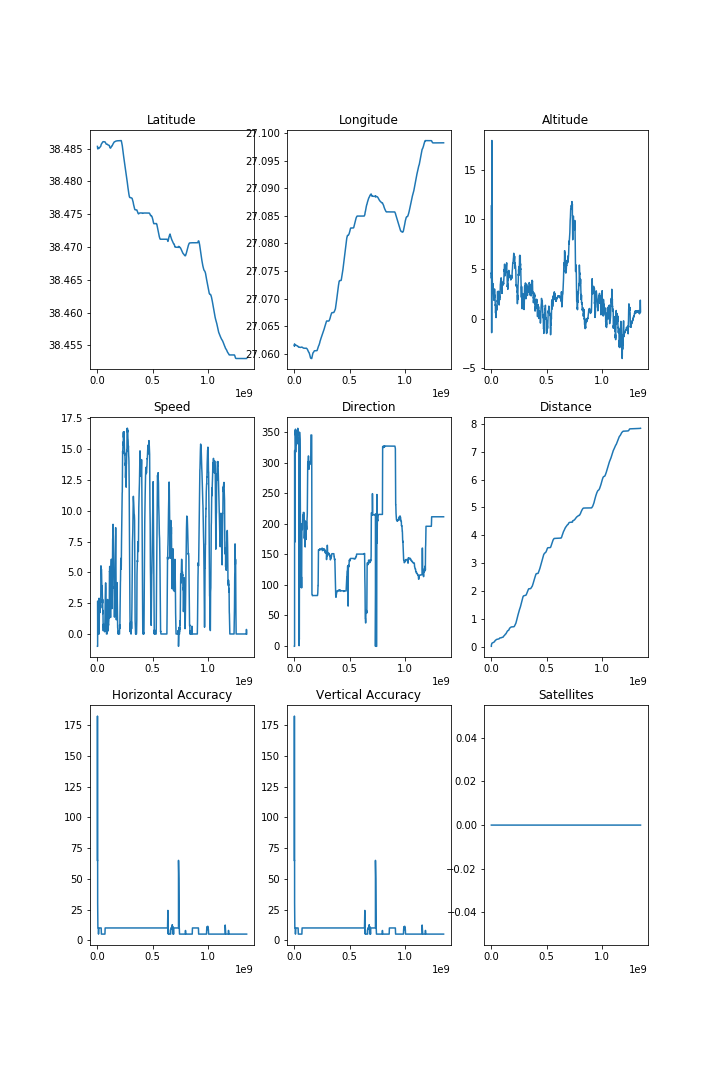
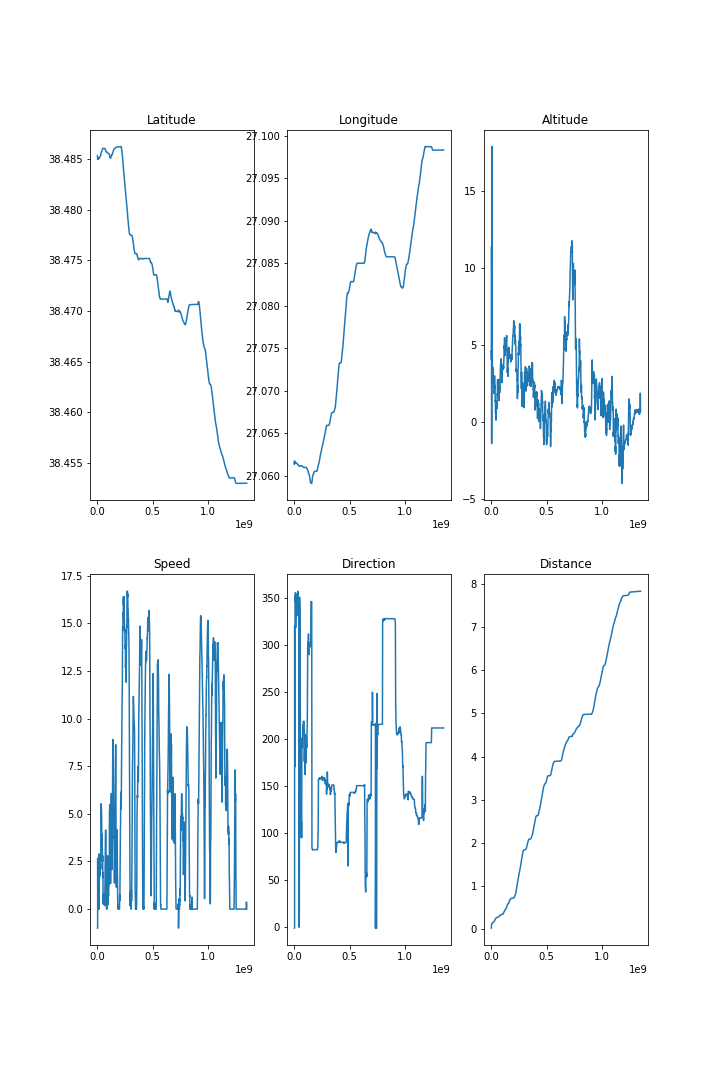
commented out third row of gps data and refreshed the figure

diff --git a/ml4qs/chapter2coding1.py b/ml4qs/chapter2coding1.py
@@ -53,7 +53,7 @@ def visualize_gps_data(file_name: str):
     # Set data
     data = file_names[file_name]
     # Create axes
-    fig, axs = plt.subplots(3, 3, figsize=(10, 15))
+    fig, axs = plt.subplots(2, 3, figsize=(10, 15))
 
     # Plot features
     # First row
@@ -64,10 +64,10 @@ def visualize_gps_data(file_name: str):
     axs[1, 0].plot(data.index, data.iloc[:, 4])  # Speed
     axs[1, 1].plot(data.index, data.iloc[:, 5])  # Direction
     axs[1, 2].plot(data.index, data.iloc[:, 6])  # Distance
-    # Third row
-    axs[2, 0].plot(data.index, data.iloc[:, 7])  # Horizontal Accuracy
-    axs[2, 1].plot(data.index, data.iloc[:, 8])  # Vertical Accuracy
-    axs[2, 2].plot(data.index, data.iloc[:, 9])  # Satellites
+    # # Third row
+    # axs[2, 0].plot(data.index, data.iloc[:, 7])  # Horizontal Accuracy
+    # axs[2, 1].plot(data.index, data.iloc[:, 8])  # Vertical Accuracy
+    # axs[2, 2].plot(data.index, data.iloc[:, 9])  # Satellites
 
     # Set titles
     # First row
@@ -78,10 +78,10 @@ def visualize_gps_data(file_name: str):
     axs[1, 0].set_title('Speed')
     axs[1, 1].set_title('Direction')
     axs[1, 2].set_title('Distance')
-    # Third row
-    axs[2, 0].set_title('Horizontal Accuracy')
-    axs[2, 1].set_title('Vertical Accuracy')
-    axs[2, 2].set_title('Satellites')
+    # # Third row
+    # axs[2, 0].set_title('Horizontal Accuracy')
+    # axs[2, 1].set_title('Vertical Accuracy')
+    # axs[2, 2].set_title('Satellites')
 
     # Save plot
     plt.savefig('./gps', quality=95)
